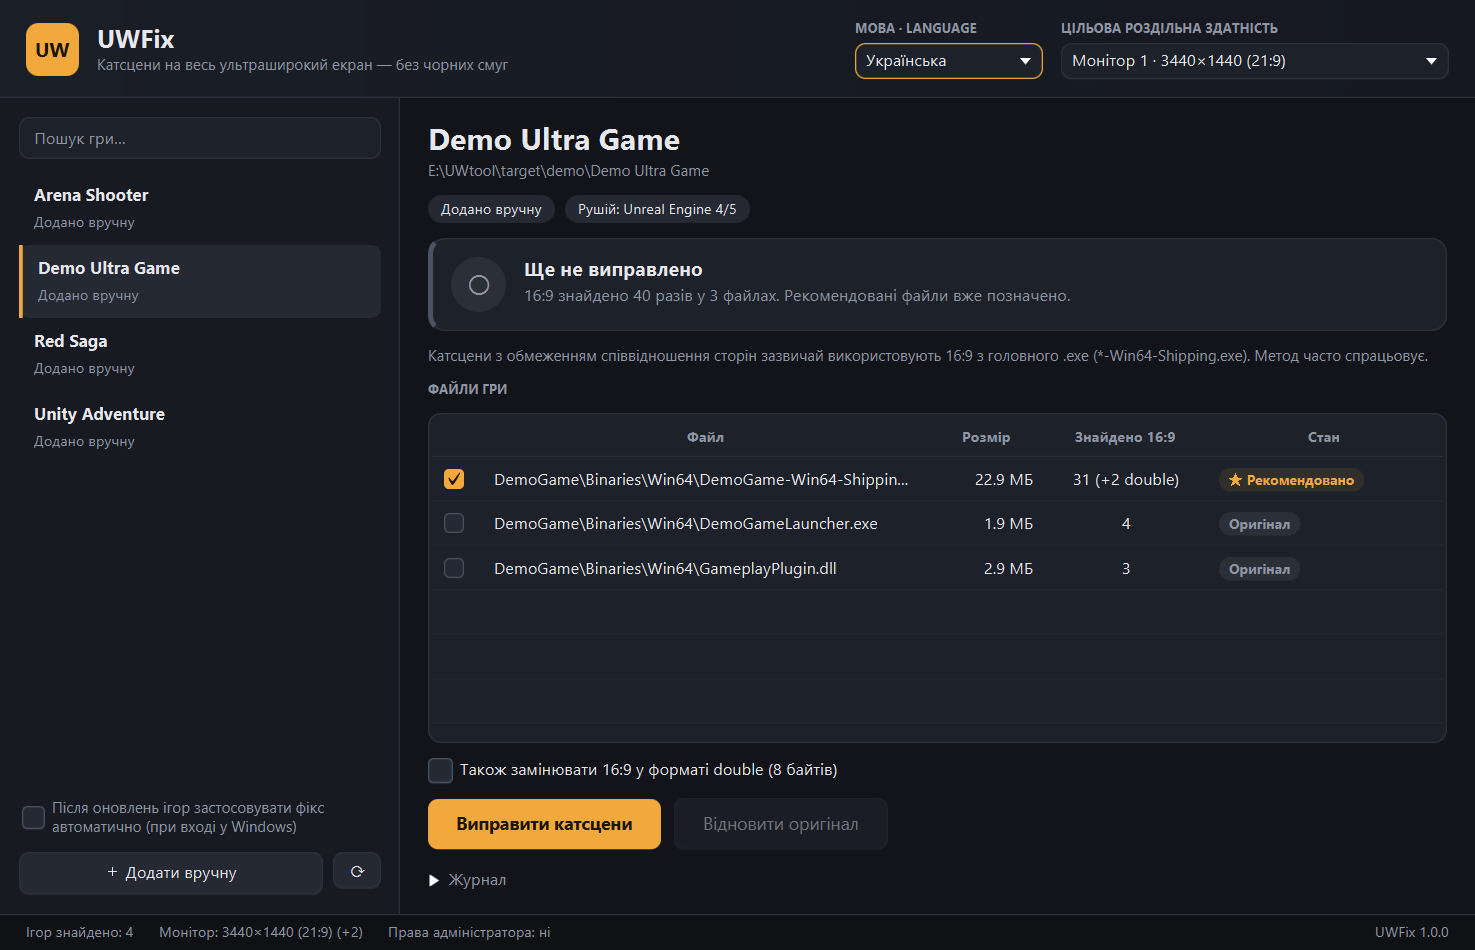
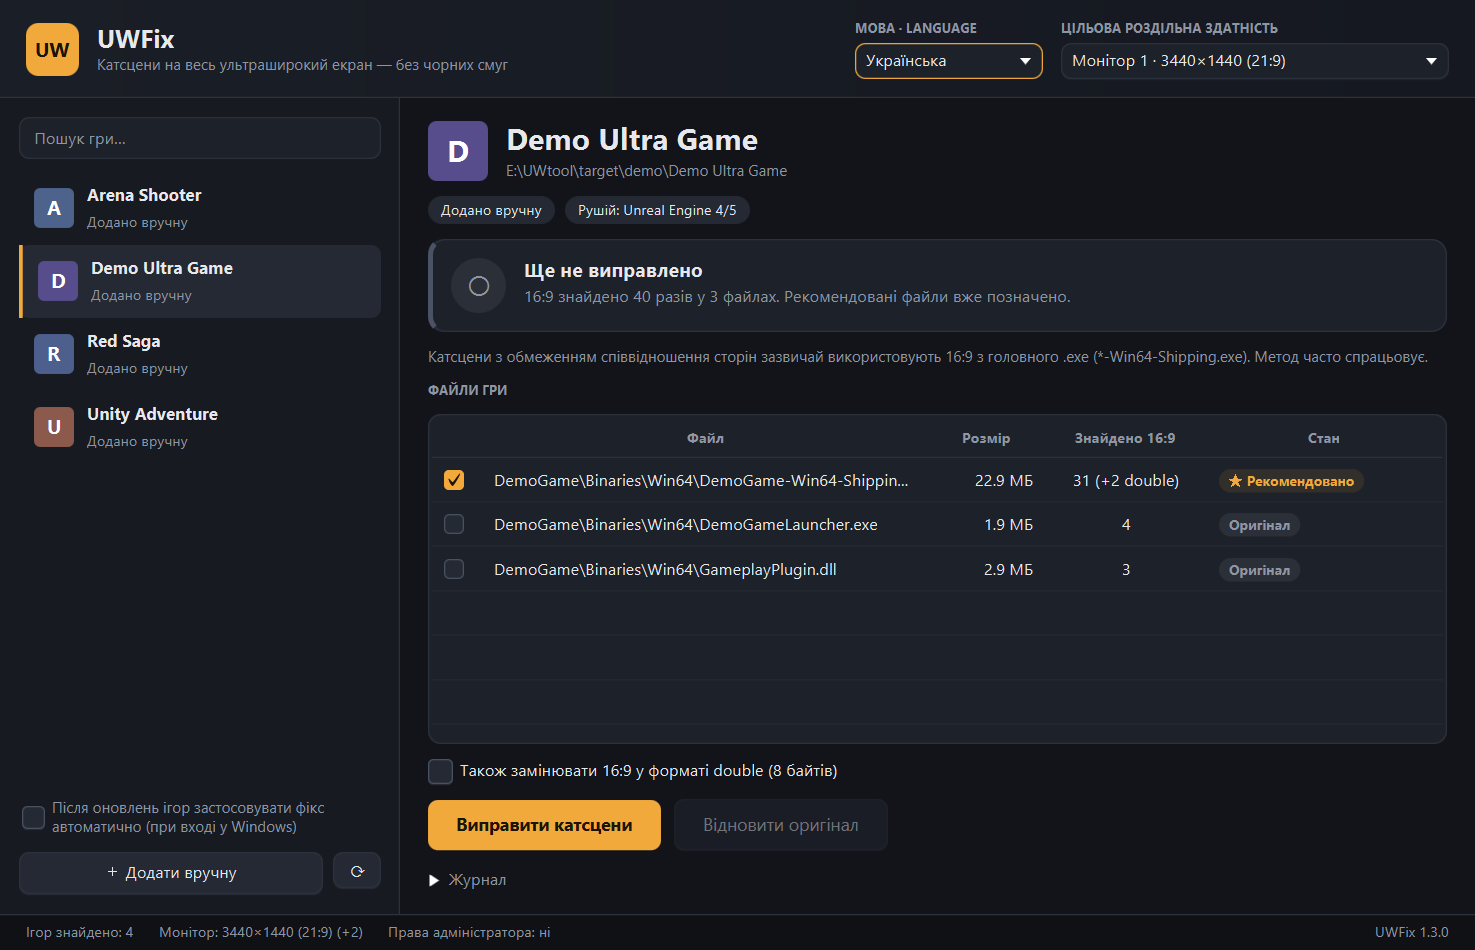
Версія 1.3.0: іконки ігор, усі монітори у списку
- README: іконки ігор, пакет icon, 138 тестів
- оновлено знімки екрана

diff --git a/README.uk.md b/README.uk.md
@@ -31,7 +31,8 @@ UWFix робить це автоматично й безпечно. **Підхо
 ## Можливості
 
 - **Пошук ігор**: Steam (усі бібліотеки на всіх дисках), Epic Games, GOG, Ubisoft Connect, а також ручне додавання будь-якої папки.
-- **Визначення монітора**: роздільна здатність береться автоматично з урахуванням масштабування Windows; можна обрати іншу або ввести свою.
+- **Іконки ігор**: для Steam-ігор — з локального кешу Steam, для інших — прямо з .exe гри (програма сама розбирає таблицю ресурсів формату Windows PE).
+- **Визначення моніторів**: усі підключені монітори визначаються автоматично з урахуванням масштабування Windows; можна обрати іншу роздільну здатність або ввести свою.
 - **Аналіз гри**: знаходить .exe і .dll з числом 16:9, відкидає сторонні бібліотеки (Steam API, DirectX, PhysX…), визначає рушій (Unreal Engine 3/4/5, Unity, REDengine) і радить, які файли змінювати.
 - **Безпечна заміна**:
   - перед зміною створюється резервна копія `*.uwfix-backup`;
@@ -107,6 +108,7 @@ src/main/java/ua/uwfix/
 ├── scan/                     пошук ігор: SteamScanner (парсер VDF), EpicScanner (JSON),
 │                             GogScanner, UbisoftScanner (реєстр через reg export), GameLibrary
 ├── analysis/                 GameAnalyzer (вибір файлів), EngineDetector, AntiCheatDetector
+├── icon/                     PeIconExtractor (іконки з .exe: ресурси PE, PNG/BMP), GameIconLocator (кеш Steam)
 ├── patch/                    Patcher (заміна, відновлення, повторне застосування), PatchStore (стан у JSON)
 ├── cli/                      ReapplyCommand — тихий режим --reapply
 ├── i18n/                     I18n, Language — переклад (messages_en/uk.properties)
@@ -139,7 +141,7 @@ flowchart LR
 
 ## Тестування
 
-128 модульних тестів (JUnit 5): перетворення співвідношень у байти, три алгоритми пошуку (порівняння з еталоном на випадкових даних), потокове сканування з різними розмірами блоку, парсери VDF / .reg / JSON, вибір файлів для різних рушіїв, повний цикл «патч → оновлення гри → повторне застосування → відновлення», пошкоджений файл стану, повнота перекладу (однакові ключі й параметри в обох мовах), порівняння версій і безпечне розпакування оновлень (зокрема архівів зі шляхами за межі папки).
+138 модульних тестів (JUnit 5): перетворення співвідношень у байти, три алгоритми пошуку (порівняння з еталоном на випадкових даних), потокове сканування з різними розмірами блоку, парсери VDF / .reg / JSON, вибір файлів для різних рушіїв, повний цикл «патч → оновлення гри → повторне застосування → відновлення», пошкоджений файл стану, повнота перекладу (однакові ключі й параметри в обох мовах), порівняння версій і безпечне розпакування оновлень (зокрема архівів зі шляхами за межі папки), видобування іконок із синтетичного PE-файлу (PNG і BMP з маскою прозорості).
 
 Порівняння алгоритмів на 128 МБ даних, схожих на машинний код (`mvnw test -Pbenchmark`):
 

diff --git a/README.md b/README.md
@@ -31,7 +31,8 @@ not taken from a fixed table.
 ## Features
 
 - **Game discovery**: Steam (all libraries on all drives), Epic Games, GOG, Ubisoft Connect, plus any folder added manually.
-- **Monitor detection**: the resolution is detected automatically, taking Windows scaling into account; you can pick another one or enter your own.
+- **Game icons**: Steam games get their icon from Steam's local cache, other games — straight from the game's .exe (the app parses the Windows PE resource table itself).
+- **Monitor detection**: every connected monitor is detected automatically, taking Windows scaling into account; you can pick another resolution or enter your own.
 - **Game analysis**: finds .exe and .dll files containing 16:9, skips third-party libraries (Steam API, DirectX, PhysX…), detects the engine (Unreal Engine 3/4/5, Unity, REDengine) and suggests which files to patch.
 - **Safe patching**:
   - a backup `*.uwfix-backup` is created before any change;
@@ -107,6 +108,7 @@ src/main/java/ua/uwfix/
 ├── scan/                     game discovery: SteamScanner (VDF parser), EpicScanner (JSON),
 │                             GogScanner, UbisoftScanner (registry via reg export), GameLibrary
 ├── analysis/                 GameAnalyzer (file selection), EngineDetector, AntiCheatDetector
+├── icon/                     PeIconExtractor (icons from .exe: PE resources, PNG/BMP), GameIconLocator (Steam cache)
 ├── patch/                    Patcher (patch, restore, re-apply), PatchStore (state in JSON)
 ├── cli/                      ReapplyCommand — silent --reapply mode
 ├── i18n/                     I18n, Language — translations (messages_en/uk.properties)
@@ -133,10 +135,10 @@ flowchart LR
 
 ## Testing
 
-128 unit tests (JUnit 5): ratio-to-bytes conversion, three search algorithms (checked against a reference
+138 unit tests (JUnit 5): ratio-to-bytes conversion, three search algorithms (checked against a reference
 on random data), streaming scan with various chunk sizes, VDF / .reg / JSON parsers, file selection for
 different engines, the full “patch → game update → re-apply → restore” cycle, a corrupted state file,
-translation completeness (same keys and parameters in both languages), version comparison and safe unpacking of updates (including archives with paths escaping the folder).
+translation completeness (same keys and parameters in both languages), version comparison and safe unpacking of updates (including archives with paths escaping the folder), icon extraction from a synthetic PE file (PNG and BMP icons with a transparency mask).
 
 Search algorithms on 128 MB of machine-code-like data (`mvnw test -Pbenchmark`):
 
